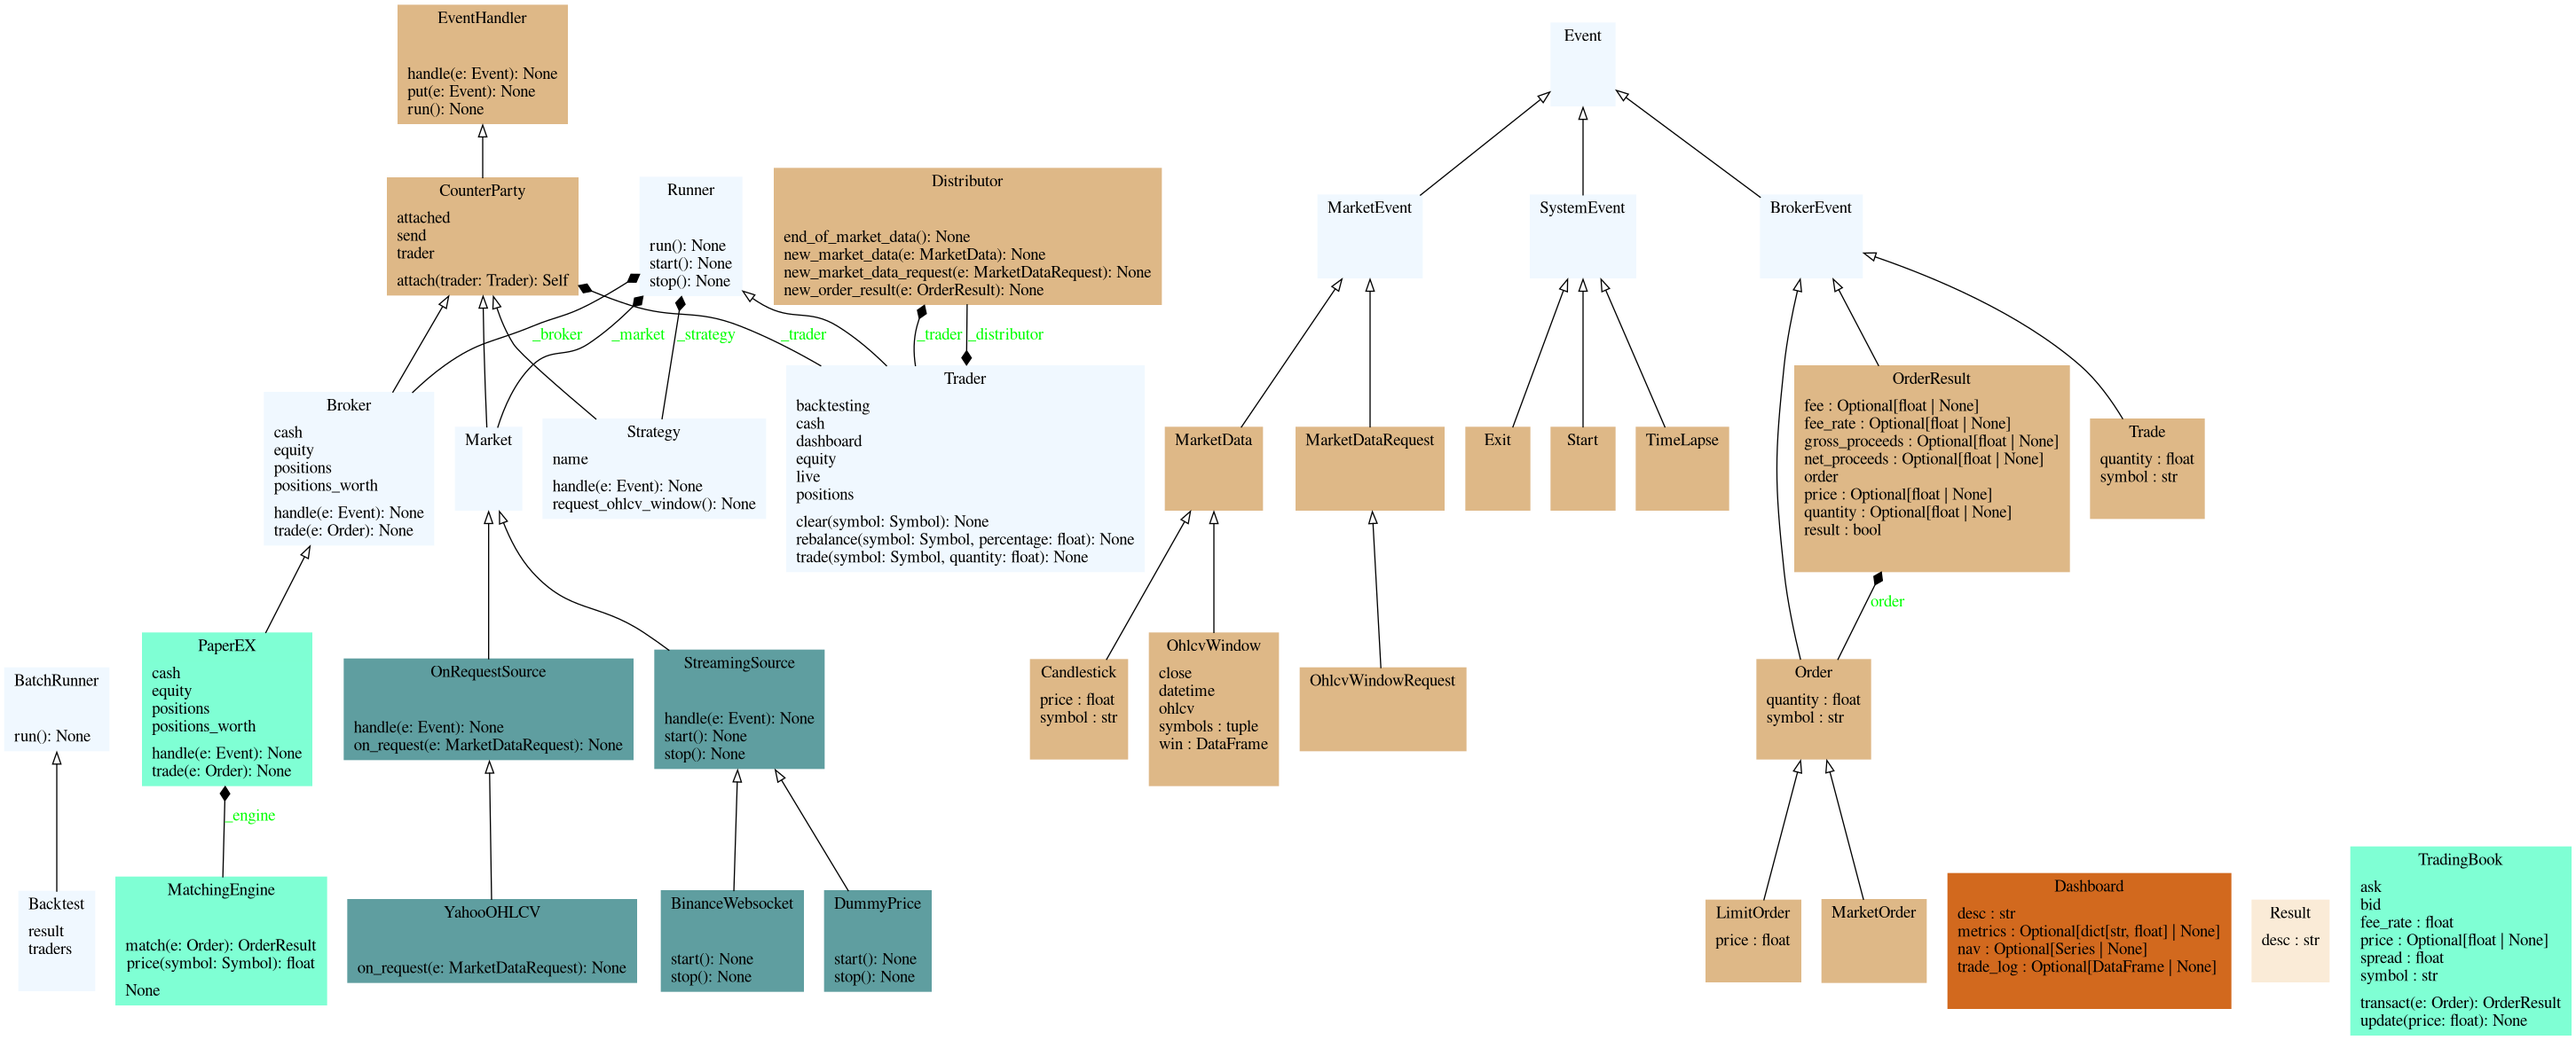
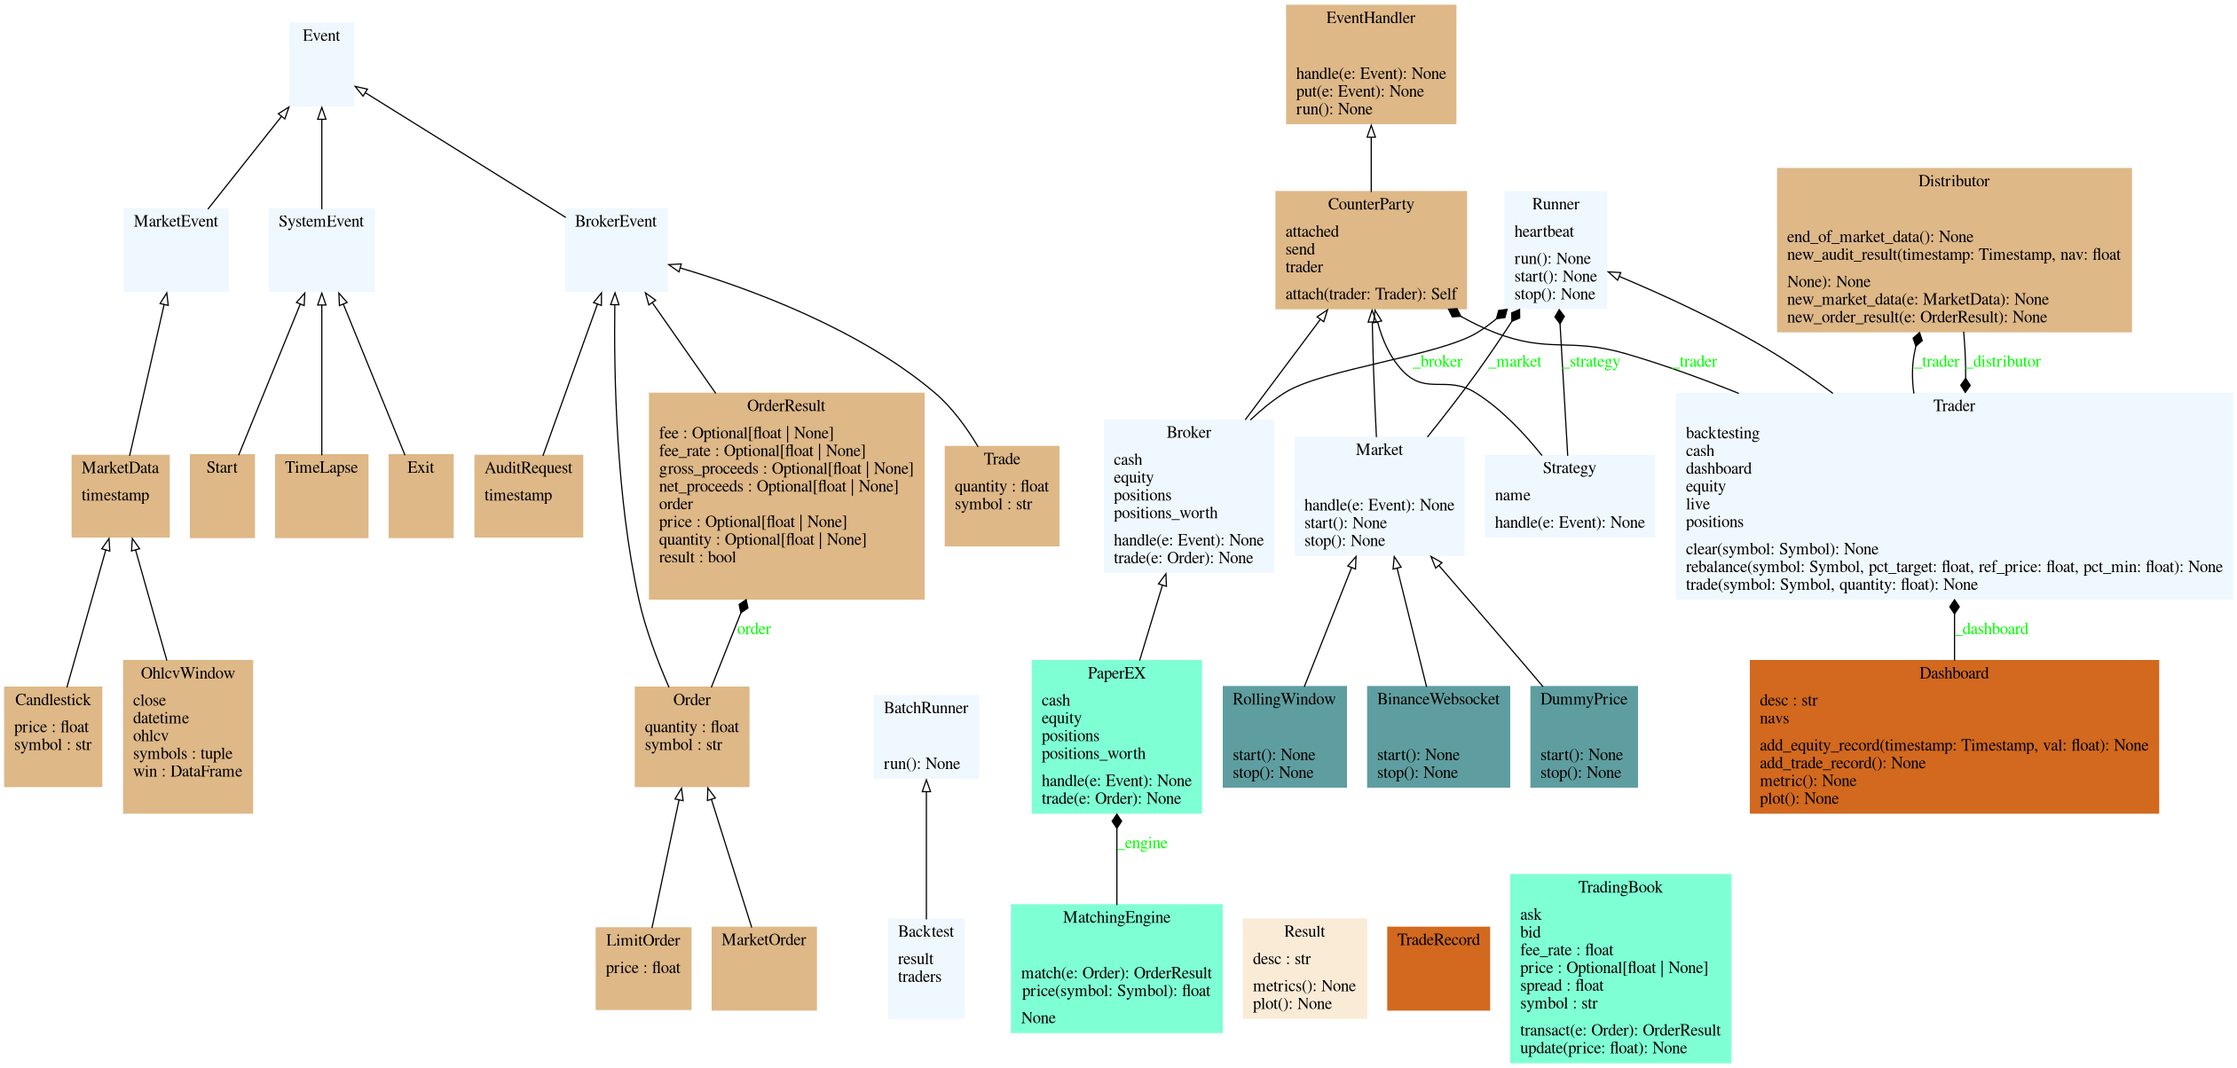
rft: remove MarketData subclass, all are MarketEvent

diff --git a/trbox/event/system.py b/trbox/event/system.py
@@ -17,7 +17,7 @@ class TimeLapse(SystemEvent):
     in backtesting the market simulator shoot out event with zero delay.
     As a result, it is hard to simulate the sequence of event simular to
     live trading. For example, in backtesting the Market simulator may send
-    MarketData event too fast, such that the Strategy may make a trade `days`
+    MarketEvent too fast, such that the Strategy may make a trade `days`
     after normally when it should be, therefore failed to simulate reality.
 
     I propose to add a TimeLapse event that the Market is listening to only
@@ -26,7 +26,7 @@ class TimeLapse(SystemEvent):
     event to ask the Market simulator to skip the remaining idle time. When
     in live trading, runner will simple discard this event, and Strategy will
     behave exactly like in backtest mode. By listening to the TimeLapse
-    event, Market simulator can ensure the timing of the next MarketData
+    event, Market simulator can ensure the timing of the next MarketEvent
     will not front run the Order event from Broker.
 
     In short, during backtest, Strategy can tell runner to skip the remaining

diff --git a/trbox/event/distributor.py b/trbox/event/distributor.py
@@ -4,6 +4,7 @@ from typing import TYPE_CHECKING
 
 from pandas import Timestamp
 
+from trbox.event import MarketEvent
 from trbox.event.broker import AuditRequest, OrderResult
 
 if TYPE_CHECKING:
@@ -11,8 +12,6 @@ if TYPE_CHECKING:
     from trbox.market import Market
     from trbox.strategy import Strategy
     from trbox.trader import Trader
-
-from trbox.event.market import MarketData
 
 
 class Distributor:
@@ -36,9 +35,9 @@ class Distributor:
     # event routing
     #
 
-    def new_market_data(self, e: MarketData) -> None:
+    def new_market_data(self, e: MarketEvent) -> None:
         self._strategy.put(e)
-        # if backtesting, broker also receive MarketData to simulate quote
+        # if backtesting, broker also receive MarketEvent to simulate quote
         if self._trader.backtesting:
             self._broker.put(e)
         # TODO in live trading these market data all comes in random times

diff --git a/trbox/event/market.py b/trbox/event/market.py
@@ -8,12 +8,7 @@ from trbox.event import MarketEvent
 
 
 @dataclass
-class MarketData(MarketEvent):
-    timestamp: Timestamp
-
-
-@dataclass
-class OhlcvWindow(MarketData):
+class OhlcvWindow(MarketEvent):
     symbols: Symbols
     win: DataFrame
 
@@ -25,6 +20,6 @@ class OhlcvWindow(MarketData):
 
 
 @dataclass
-class Candlestick(MarketData):
+class Candlestick(MarketEvent):
     symbol: Symbol
     price: float

diff --git a/trbox/broker/paper/__init__.py b/trbox/broker/paper/__init__.py
@@ -74,7 +74,7 @@ class PaperEX(Broker):
     @override
     def handle(self, e: Event) -> None:
         super().handle(e)
-        # handle MarketData event when backtesting
+        # handle MarketEvent when backtesting
         if self.trader.backtesting:
             if isinstance(e, Candlestick):
                 self._engine[e.symbol].update(e.price)

diff --git a/trbox/broker/paper/engine.py b/trbox/broker/paper/engine.py
@@ -26,7 +26,7 @@ class TradingBook:
     def ask(self) -> float | None:
         return self.price * (1 + self.spread / 2) if self.price else None
 
-    # update book status on related MarketData
+    # update book status on related MarketEvent
     def update(self, price: float) -> None:
         self.price = price
 

diff --git a/trbox/event/__init__.py b/trbox/event/__init__.py
@@ -1,5 +1,7 @@
 from dataclasses import dataclass
 
+from pandas import Timestamp
+
 
 class Event:
     pass
@@ -17,6 +19,7 @@ class MarketEvent(Event):
     '''
     All price data related events
     '''
+    timestamp: Timestamp
 
 
 class SystemEvent(Event):
